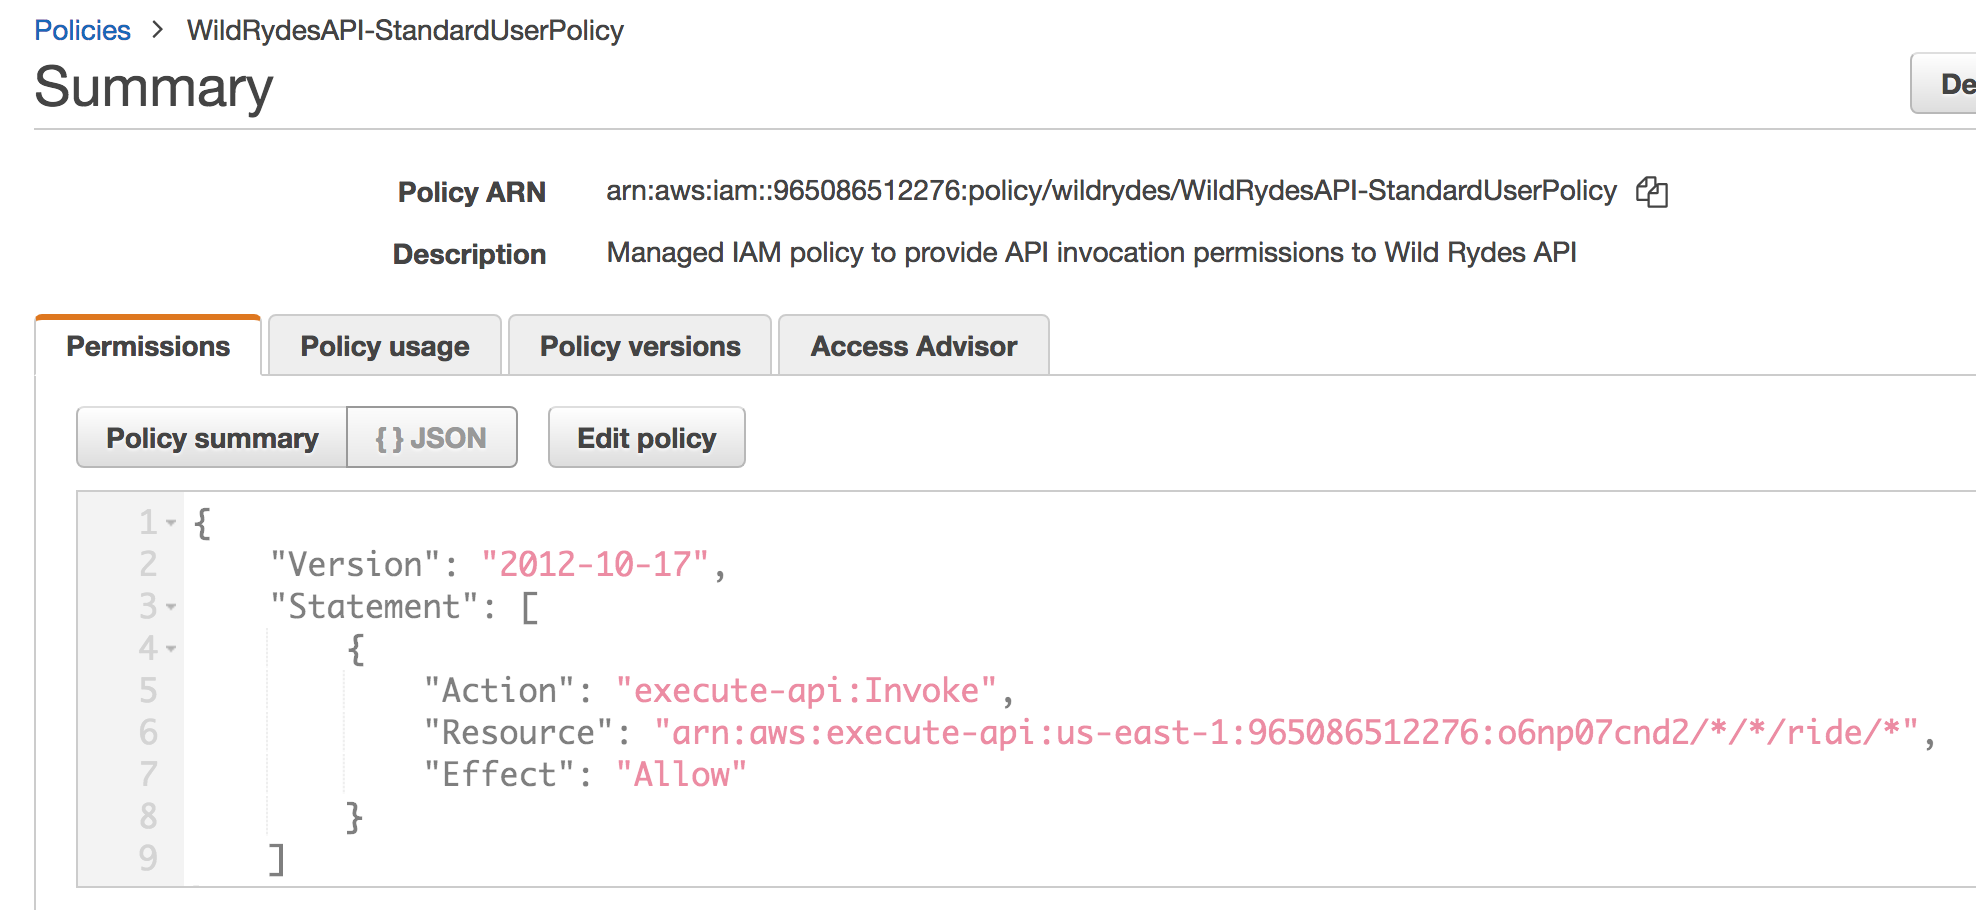
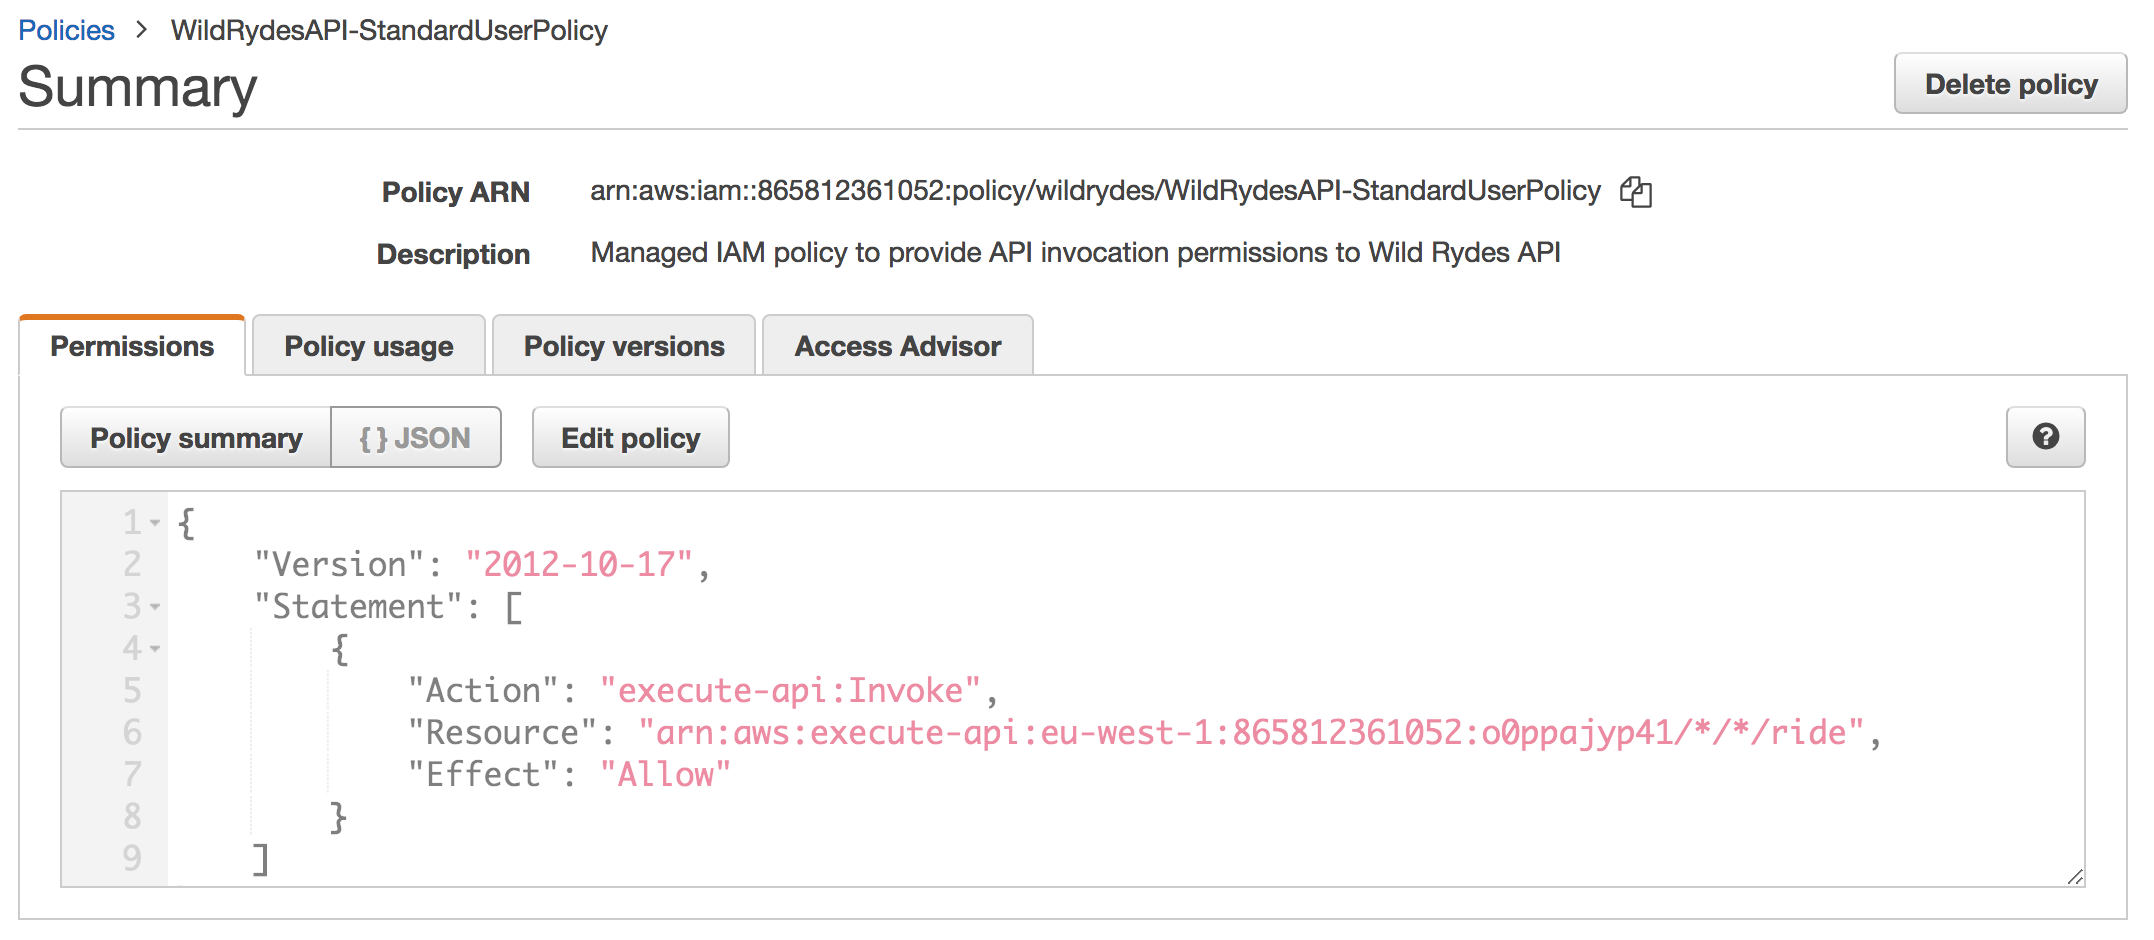
Refined module 2 instructions

diff --git a/Auth/website/src/pages/MainApp.js b/Auth/website/src/pages/MainApp.js
@@ -60,7 +60,7 @@ class MainApp extends React.Component {
    * @param {Number} longitude
    */
   async getData(pin) {
-    throw new Error('Request a Ride is not implemented');
+    console.error('Request a Ride is not implemented');
   }
 
   /**

diff --git a/Auth/2_ServerlessAPI/Optional-APIGateway-IAMAuth.md b/Auth/2_ServerlessAPI/Optional-APIGateway-IAMAuth.md
@@ -1,14 +1,16 @@
 # Optional Module 2 Extension: Serverless APIs with IAM-based Authorization
 
-In this **optional extension to module 2**, you will update your serverless backend for your Wild Rydes application leveraging [Amazon API Gateway](https://aws.amazon.com/api-gateway/) and [AWS Lambda](https://aws.amazon.com/lambda/) to use IAM-based authorization as a more secure authentication option which includes request signing.
+In this **optional extension to module 2**, you will update your serverless backend for your Wild Rydes application leveraging [Amazon API Gateway](https://aws.amazon.com/api-gateway/) and [AWS Lambda](https://aws.amazon.com/lambda/) to use request signing with IAM-based authorization as a more secure authentication option.
 
-**If you would like to skip this optional extension**, you are able to proceed to module 3, [IAM-based Authorization](../3_IAMAuthorization).
+**If you would like to skip this optional extension**, you are able to proceed to module 3 directly, [IAM-based Authorization](../3_IAMAuthorization).
 
 ## Solution Architecture
 
 Building on Module 2, this module updates our Serverless backend built earlier using Amazon API Gateway and AWS Lambda to use IAM-based authorization. This extends our authorization capability to offer fine-grained access control authorizing differently per API operation and enhancing security via request signing. By enabling IAM-based authorization, you will use the same type of authentication, authorization, and request signing used by all AWS services and SDKs.
 
 [Request signing](https://docs.aws.amazon.com/general/latest/gr/signing_aws_api_requests.html) is a more secure implementation of API request authentication where each API request made is signed with a signature unique to the request itself. Hence, no static API keys or bearer tokens are directly sent to the backend service and any man-in-the-middle attacks would not be able to use such API keys or bearer tokens to impersonate a valid user with the backend resources. AWS APIs and SDKs use a request signing algorithm nammed [Signature V4 (Sigv4)](https://docs.aws.amazon.com/general/latest/gr/signature-version-4.html) which is what you will enable your API to use in this module.
+
+> For production APIs, you should use either the token-based authorization OR request signing authorization via IAM demonstrated in this module, but not use both for the same API.
 
 ![Module 2 architecture](../images/wildrydes-module2-architecture.png)
 
@@ -42,15 +44,19 @@ In the IAM console, assocate the *WildRydesAPI-StandardUserPolicy* with your Cog
 1. Review the policy which was created by CloudFormation to authorize requests to your API Gateway deployment.
 
 	![WildRydesAPI Policy Details](../images/iam-wildrydesapi-policy-details.png)
-	> This policy allows access to invoke any method within the /rides path on any stage of API Gatweay. For more details about authoring IAM policies for API Gateway, visit the [controlling access to an API with IAM permissions](https://docs.aws.amazon.com/apigateway/latest/developerguide/permissions.html) documentation.
+	> This policy allows access to invoke any method on the /ride path for any API stage of your API gateway backend. For more details about authoring IAM policies for API Gateway, visit the [controlling access to an API with IAM permissions](https://docs.aws.amazon.com/apigateway/latest/developerguide/permissions.html) documentation.
 
 1. Choose **Roles**.
 
 1. Search for *WildRydes* to find the two roles which were created by Cognito Identity Pools when you created the Identity Pool in module one. Should you not be able to find the roles here, you can alternatively go to the **Cognito Federated Identities** console, find the correct identity pool, then click **Edit Identity Pool** in the top-right corner to see the roles listed. Each identity pool has both an Unauthenticated user role and an Authenticated user role.
 
-1. Once you have found the names of the roles, go back to the IAM console and select the *Auth* role for your authenticated users.
+1. Once you have found the names of the roles, go back to the IAM console and **select the *Auth* role** for your authenticated users.
+	
+	> If the full name of the role is hidden from view due to column width, you can hover over the partially visible name of the role to see the full name of the role as a tool tip.
+	
+	![IAM WildRydes Auth Role Selction](../images/iam-wildrydes-role-selection.png)
 
-1. Choose **Attach policies** to attach 
+1. Choose **Attach policies**.
 
 1. Search for `WildRydes` and check the box next to the policy named *WildRydesAPI-StandardUserAccess*.
 
@@ -134,7 +140,7 @@ Now that you've deployed the new authorizer configuration to production, all API
 	        'Content-Type': 'application/json'
 	      }
 	    };
-	    logger.info('API Request:', apiRequest);
+	    console.log('API Request:', apiRequest);
 	    return await API.post(apiName, apiPath, apiRequest);
 	  }
 	```
@@ -143,7 +149,11 @@ Now that you've deployed the new authorizer configuration to production, all API
 
 18. The unicorn ride request should be fulfilled as before now. To see the full request headers which were sent, look at the developer console for an message which includes the API Request details, including the full signature and headers of the request.
 
+	> This message starts with POST /prod/ride then shows the headers of the request made.
+	
+	> You may notice that there were both x-amz-date and x-amz-security-token headers sent among other headers. These two headers are part of the overall request signature, along with the Authorization header.
+
 </p></details>
 <br>
 
-If the API now invokes correctly and application funcions as expected again, you can move on to the next module, [IAM-based Authorization](../3_IAMAuthorization).
+If your API now invokes correctly and application funcions as expected summoning unicorns again, you can proceed to the next module, [IAM-based Authorization](../3_IAMAuthorization).

diff --git a/Auth/2_ServerlessAPI/README.md b/Auth/2_ServerlessAPI/README.md
@@ -67,7 +67,8 @@ First, expand your *amplify-config.js* file to store your new API Gateway endpoi
 	        endpoints: [
 	            {
 	                name: 'WildRydesAPI',
-	                endpoint: 'https://1ngrgqjt6c.execute-api.us-east-1.amazonaws.com/prod'
+	                endpoint: 'https://1ngrgqjt6c.execute-api.us-east-1.amazonaws.com/prod',
+	                region: 'us-east-1'
 	            }
 	        ]
 	    },
@@ -86,7 +87,6 @@ First, expand your *amplify-config.js* file to store your new API Gateway endpoi
 
 	```
 	  async getData(pin) {
-	    Amplify.Logger.LOG_LEVEL = 'DEBUG';
 	    const apiRequest = {
 	      body: {
 	        PickupLocation: {
@@ -99,7 +99,7 @@ First, expand your *amplify-config.js* file to store your new API Gateway endpoi
 	        'Content-Type': 'application/json'
 	      }
 	    };
-	    logger.info('API Request:', apiRequest);
+	    console.log('API Request:', apiRequest);
 	    return await API.post(apiName, apiPath, apiRequest);
 	  }
 	```
@@ -234,19 +234,19 @@ Now that you've deployed the new authorizer configuration to production, all API
 	        'Content-Type': 'application/json'
 	      }
 	    };
-	    logger.info('API Request:', apiRequest);
+	    console.log('API Request:', apiRequest);
 	    return await API.post(apiName, apiPath, apiRequest);
 	  }
 	```
 
 35. Allow the application to refresh, sign-in again, and request a ride.
 
-36. The unicorn ride request should be fulfilled as before now. To see the full request headers which were sent, look at the developer console for an INFO message which includes the API Request details once expanded, including the full headers and body of the request.
+36. The unicorn ride request should be fulfilled as before now. To see the full request headers which were sent, look at the developer console for an *API Request* informational message which includes the API Request details once expanded, including the full headers and body of the request.
 
 </p></details>
 <br>
 
-If the API now invokes correctly and application funcions as expected again, you may **proceed to complete either**:
+If the API now invokes correctly and application funcions as expected summoning unicorns, you may **proceed to complete either**:
 
 - **Optional module extension** with [Fine-grained IAM-based authorization with API Gateway](./Optional-APIGateway-IAMAuth.md)
 
